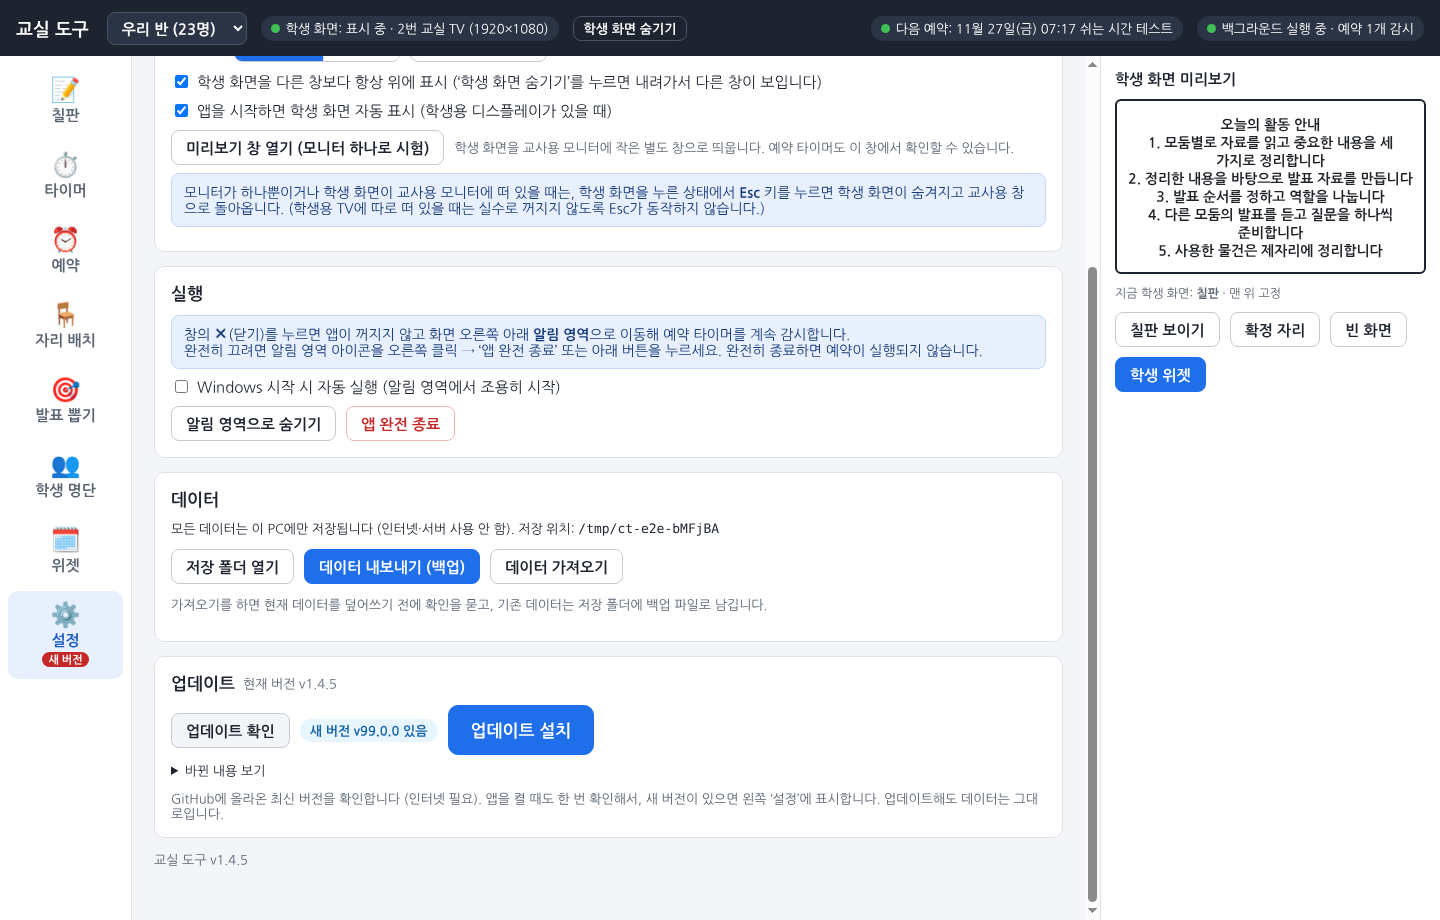
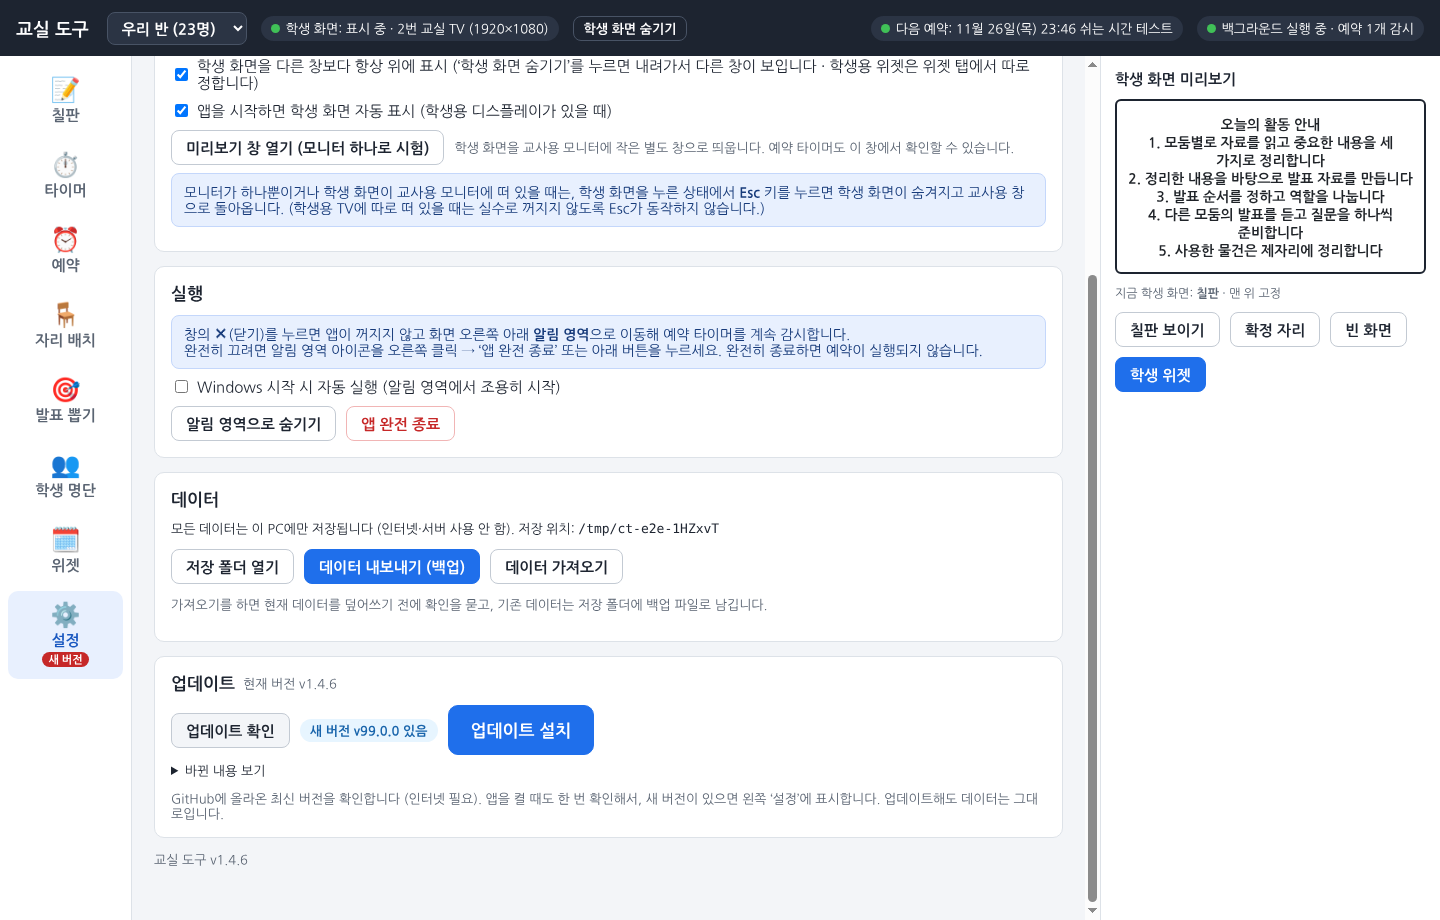
학생용 위젯: 다른 창보다 항상 위에 표시할지 체크로 선택 (v1.4.7)
- 위젯 탭 학생용 위젯에 '다른 창보다 항상 위에 표시' 체크 추가 (기본 켜짐)
- 학생 화면이 위젯일 때는 이 설정을, 다른 화면일 때는 기존 설정을 따름
- 타이머가 떠 있는 동안에는 기존처럼 맨 위
- 단위·E2E 검사 추가

Claude-Session: https://claude.ai/code/session_01LsaNWarko4tBqDD5n3EM44

Changed region(s): [[0.125, 0.0609, 0.7188, 0.0913], [0.4688, 0.5478, 0.5, 0.5783]]

diff --git a/src/main/main.ts b/src/main/main.ts
@@ -188,17 +188,30 @@ class StudentWindow {
    * 맨 위 표시 결정.
    * - 설정 '학생 화면을 다른 창보다 위에 표시'(기본 켜짐)가 켜져 있으면 학생 화면이 보이는 동안 항상 맨 위
    * - 설정이 꺼져 있어도 타이머가 표시 중이면 맨 위 (타이머를 닫으면 원래대로)
+   * - 학생용 위젯을 띄운 동안에는 위젯 설정 '다른 창보다 항상 위에 표시'를 따른다
    * - 미리보기 창(교사용 모니터에서 시험)은 맨 위로 올리지 않는다
    */
+  private wantTop(w: BrowserWindow): boolean {
+    const pref = ctl.data.studentBase === 'widget' ? ctl.data.widget.studentOnTop : ctl.data.settings.studentAlwaysOnTop;
+    return (this.topmost || pref) && this.mode === 'display' && w.isVisible() && !w.isMinimized();
+  }
+
   applyTopmost(timerOn: boolean): void {
     this.topmost = timerOn;
     const w = this.win;
     if (!w || w.isDestroyed()) return;
-    const want = (timerOn || ctl.data.settings.studentAlwaysOnTop) && this.mode === 'display' && w.isVisible() && !w.isMinimized();
+    const want = this.wantTop(w);
     if (want) {
       w.setAlwaysOnTop(true, 'screen-saver');
       w.moveTop();
     } else w.setAlwaysOnTop(false);
+  }
+
+  /** 상태가 바뀔 때(위젯 ↔ 다른 화면, 위젯 설정 변경) 맨 위 여부가 달라졌을 때만 다시 적용 */
+  syncTopmost(): void {
+    const w = this.win;
+    if (!w || w.isDestroyed()) return;
+    if (this.wantTop(w) !== w.isAlwaysOnTop()) this.applyTopmost(this.topmost);
   }
 
   /** 디스플레이 연결·해제 대응 */
@@ -408,6 +421,7 @@ function init(): void {
       if (teacherWin && !teacherWin.isDestroyed()) teacherWin.webContents.send('state', state);
       widget?.send('state', state);
       student.send(state.studentView);
+      student.syncTopmost();
     },
     studentWindowStatus: () => student.status(),
     displays: () => {

diff --git a/src/renderer/teacher/WidgetTab.tsx b/src/renderer/teacher/WidgetTab.tsx
@@ -383,6 +383,20 @@ function StudentWidgetSettings() {
         ))}
       </div>
       <p className="small muted" style={{ margin: '4px 0 0' }}>칸을 끄면 남은 칸이 빈자리를 채웁니다. 오른쪽 칸을 모두 끄면 큰 시계가 화면 너비 전체를 씁니다.</p>
+      <div className="row" style={{ marginTop: 10 }}>
+        <label className="inline">
+          <input
+            type="checkbox"
+            checked={w.studentOnTop}
+            onChange={(e) => act('widget/update', { patch: { studentOnTop: e.target.checked } }, e.target.checked ? '학생 위젯을 다른 창보다 항상 위에 표시합니다.' : '학생 위젯을 다른 창 위에 고정하지 않습니다.')}
+            data-testid="student-widget-ontop"
+          />
+          학생 위젯을 다른 창보다 항상 위에 표시
+        </label>
+      </div>
+      <p className="small muted" style={{ margin: '4px 0 0' }}>
+        끄면 학생 화면 모니터에서 다른 프로그램(PPT, 동영상 등)을 열 때 그 창이 위젯 위로 올라옵니다. 단, 큰 칸에 타이머를 띄우는 동안에는 잠시 맨 위에 표시합니다. 위젯이 아닌 칠판·자리 배치 등은 ‘설정’ 탭의 맨 위 표시 설정을 따릅니다.
+      </p>
       <div className="col" style={{ marginTop: 10 }}>
         <span className="field-label">알림장 (학생 위젯 아래쪽에 보임)</span>
         <textarea rows={3} value={notice} maxLength={1000} placeholder={'예: 내일 준비물 - 리코더, 색연필\n수요일 현장체험학습 동의서 제출'} onChange={(e) => setNotice(e.target.value)} onBlur={() => notice !== w.studentNotice && act('widget/update', { patch: { studentNotice: notice } }, '알림장을 저장했습니다.')} data-testid="student-notice" />

diff --git a/src/main/controller.ts b/src/main/controller.ts
@@ -640,7 +640,7 @@ export class Controller {
         const w = this.data.widget;
         const p = a.patch ?? {};
         if (typeof p.studentNotice === 'string') w.studentNotice = p.studentNotice.slice(0, 1000);
-        for (const k of ['showOnStartup', 'localShowOnStudent', 'holidays', 'holidaysOnStudent', 'glass'] as const) if (typeof p[k] === 'boolean') w[k] = p[k];
+        for (const k of ['showOnStartup', 'localShowOnStudent', 'holidays', 'holidaysOnStudent', 'glass', 'studentOnTop'] as const) if (typeof p[k] === 'boolean') w[k] = p[k];
         if (typeof p.weatherRegion === 'string') w.weatherRegion = p.weatherRegion;
         if (typeof p.background === 'string') w.background = p.background;
         if (p.periods && typeof p.periods === 'object') {

diff --git a/src/renderer/teacher/SettingsTab.tsx b/src/renderer/teacher/SettingsTab.tsx
@@ -70,7 +70,7 @@ export function SettingsTab() {
         <div className="row">
           <label className="inline">
             <input type="checkbox" checked={st.studentAlwaysOnTop} onChange={(e) => call({ type: 'setAlwaysOnTop', value: e.target.checked })} data-testid="always-on-top" />
-            학생 화면을 다른 창보다 항상 위에 표시 (‘학생 화면 숨기기’를 누르면 내려가서 다른 창이 보입니다)
+            학생 화면을 다른 창보다 항상 위에 표시 (‘학생 화면 숨기기’를 누르면 내려가서 다른 창이 보입니다 · 학생용 위젯은 위젯 탭에서 따로 정합니다)
           </label>
         </div>
         <div className="row">

diff --git a/tests/widget.test.ts b/tests/widget.test.ts
@@ -269,3 +269,15 @@ describe('시간표 붙여넣기', () => {
     expect(parseTimetablePaste('  \n ')).toBeNull();
   });
 });
+
+describe('학생 위젯 맨 위 표시 설정', () => {
+  it('기본은 켜짐, 예전 저장 파일(값 없음)도 켜짐으로 읽고 끈 값은 유지', () => {
+    expect(defaultWidget().studentOnTop).toBe(true);
+    const d = defaultData();
+    const old = JSON.parse(JSON.stringify(d));
+    delete old.widget.studentOnTop;
+    expect(normalizeData(old).widget.studentOnTop).toBe(true);
+    old.widget.studentOnTop = false;
+    expect(normalizeData(old).widget.studentOnTop).toBe(false);
+  });
+});

diff --git a/src/shared/defaults.ts b/src/shared/defaults.ts
@@ -108,6 +108,7 @@ export function defaultWidget(): WidgetData {
     background: 'sky',
     studentNotice: '',
     studentHiddenCards: [],
+    studentOnTop: true,
   };
 }
 
@@ -335,6 +336,7 @@ function normWidget(v: unknown): WidgetData {
     background: str(v.background, 'sky'),
     studentNotice: str(v.studentNotice, '').slice(0, 1000),
     studentHiddenCards: arr(v.studentHiddenCards, (x) => (STUDENT_CARDS.some((c) => c.id === x) ? (x as StudentCardId) : null)),
+    studentOnTop: bool(v.studentOnTop, true),
   };
 }
 

diff --git a/src/shared/types.ts b/src/shared/types.ts
@@ -256,6 +256,7 @@ export interface WidgetData {
   background: string; // 보드 배경 (그라데이션 ID)
   studentNotice: string; // 학생용 위젯 '알림장'
   studentHiddenCards: StudentCardId[]; // 학생용 위젯에서 끈 칸
+  studentOnTop: boolean; // 학생용 위젯을 띄운 동안 학생 화면을 다른 창보다 항상 위에 둘지
 }
 
 export interface AppData {

diff --git a/README.md b/README.md
@@ -51,6 +51,7 @@
 - 왼쪽 큰 칸에 평소에는 **큰 시계와 지금 교시·남은 시간·다음 교시**가 보입니다. 오른쪽에는 달력(공휴일만), 날씨, 급식, 이번 주 시간표가 있고, 아래에는 오늘 시간표와 **알림장**(위젯 탭에서 입력)이 있습니다.
 - 학생용 위젯을 띄운 채로 **칠판을 표시하거나 타이머를 시작하면** 큰 시계 자리에 **칠판 / 타이머 / 칠판+타이머**가 대신 뜹니다. 타이머를 닫으면 그 전 화면으로 돌아가고, **큰 칸: 시계**를 누르면 시계로 돌아갑니다.
 - **보일 칸**: 위젯 탭 → 학생용 위젯에서 달력·날씨·급식·이번 주 시간표·오늘 시간표·알림장을 체크로 켜고 끕니다(큰 시계 칸은 항상 보임). 끈 칸 자리는 남은 칸이 채웁니다.
+- **다른 창보다 항상 위에 표시**: 위젯 탭 → 학생용 위젯의 체크로 정합니다(기본 켜짐). 끄면 학생 화면 모니터에서 연 다른 프로그램이 위젯 위로 올라옵니다. 큰 칸에 타이머가 떠 있는 동안에는 잠시 맨 위에 표시합니다. 위젯이 아닌 칠판·자리 배치 등은 설정 탭의 맨 위 표시 설정을 따릅니다.
 - 학생용 위젯에는 **구글 캘린더·내 일정·메모가 나오지 않습니다**.
 
 ### 알아 둘 점
